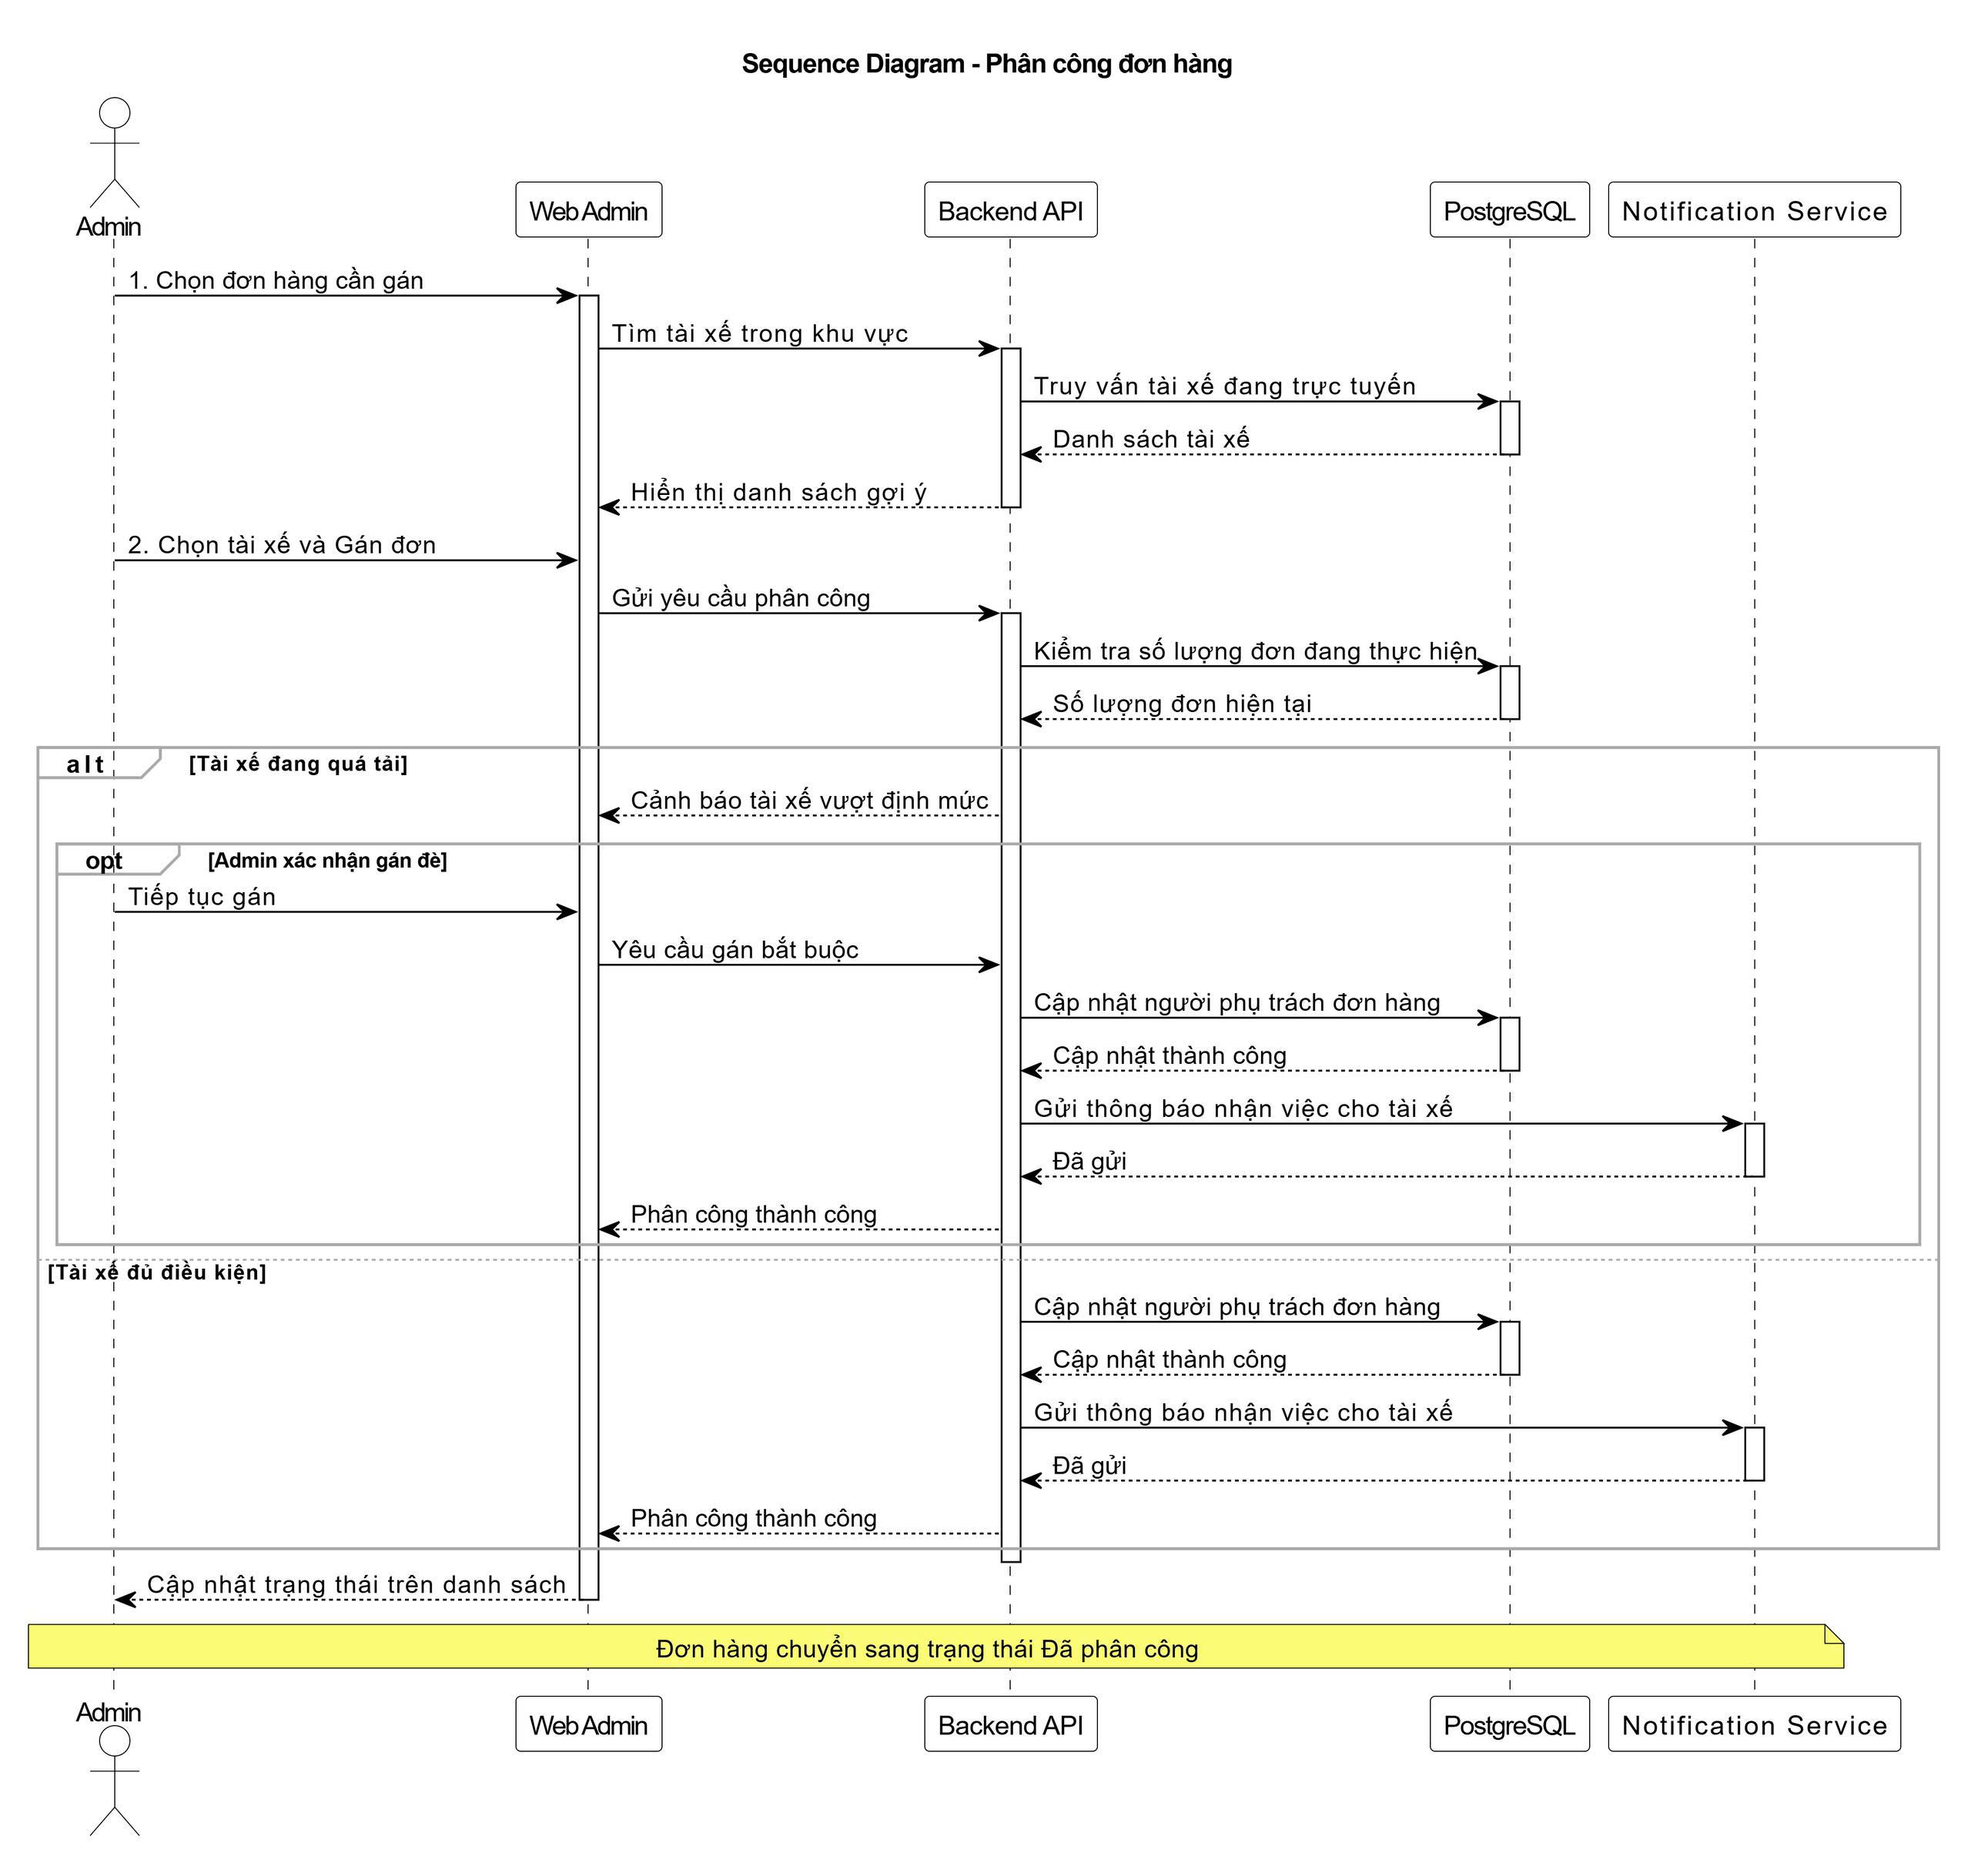
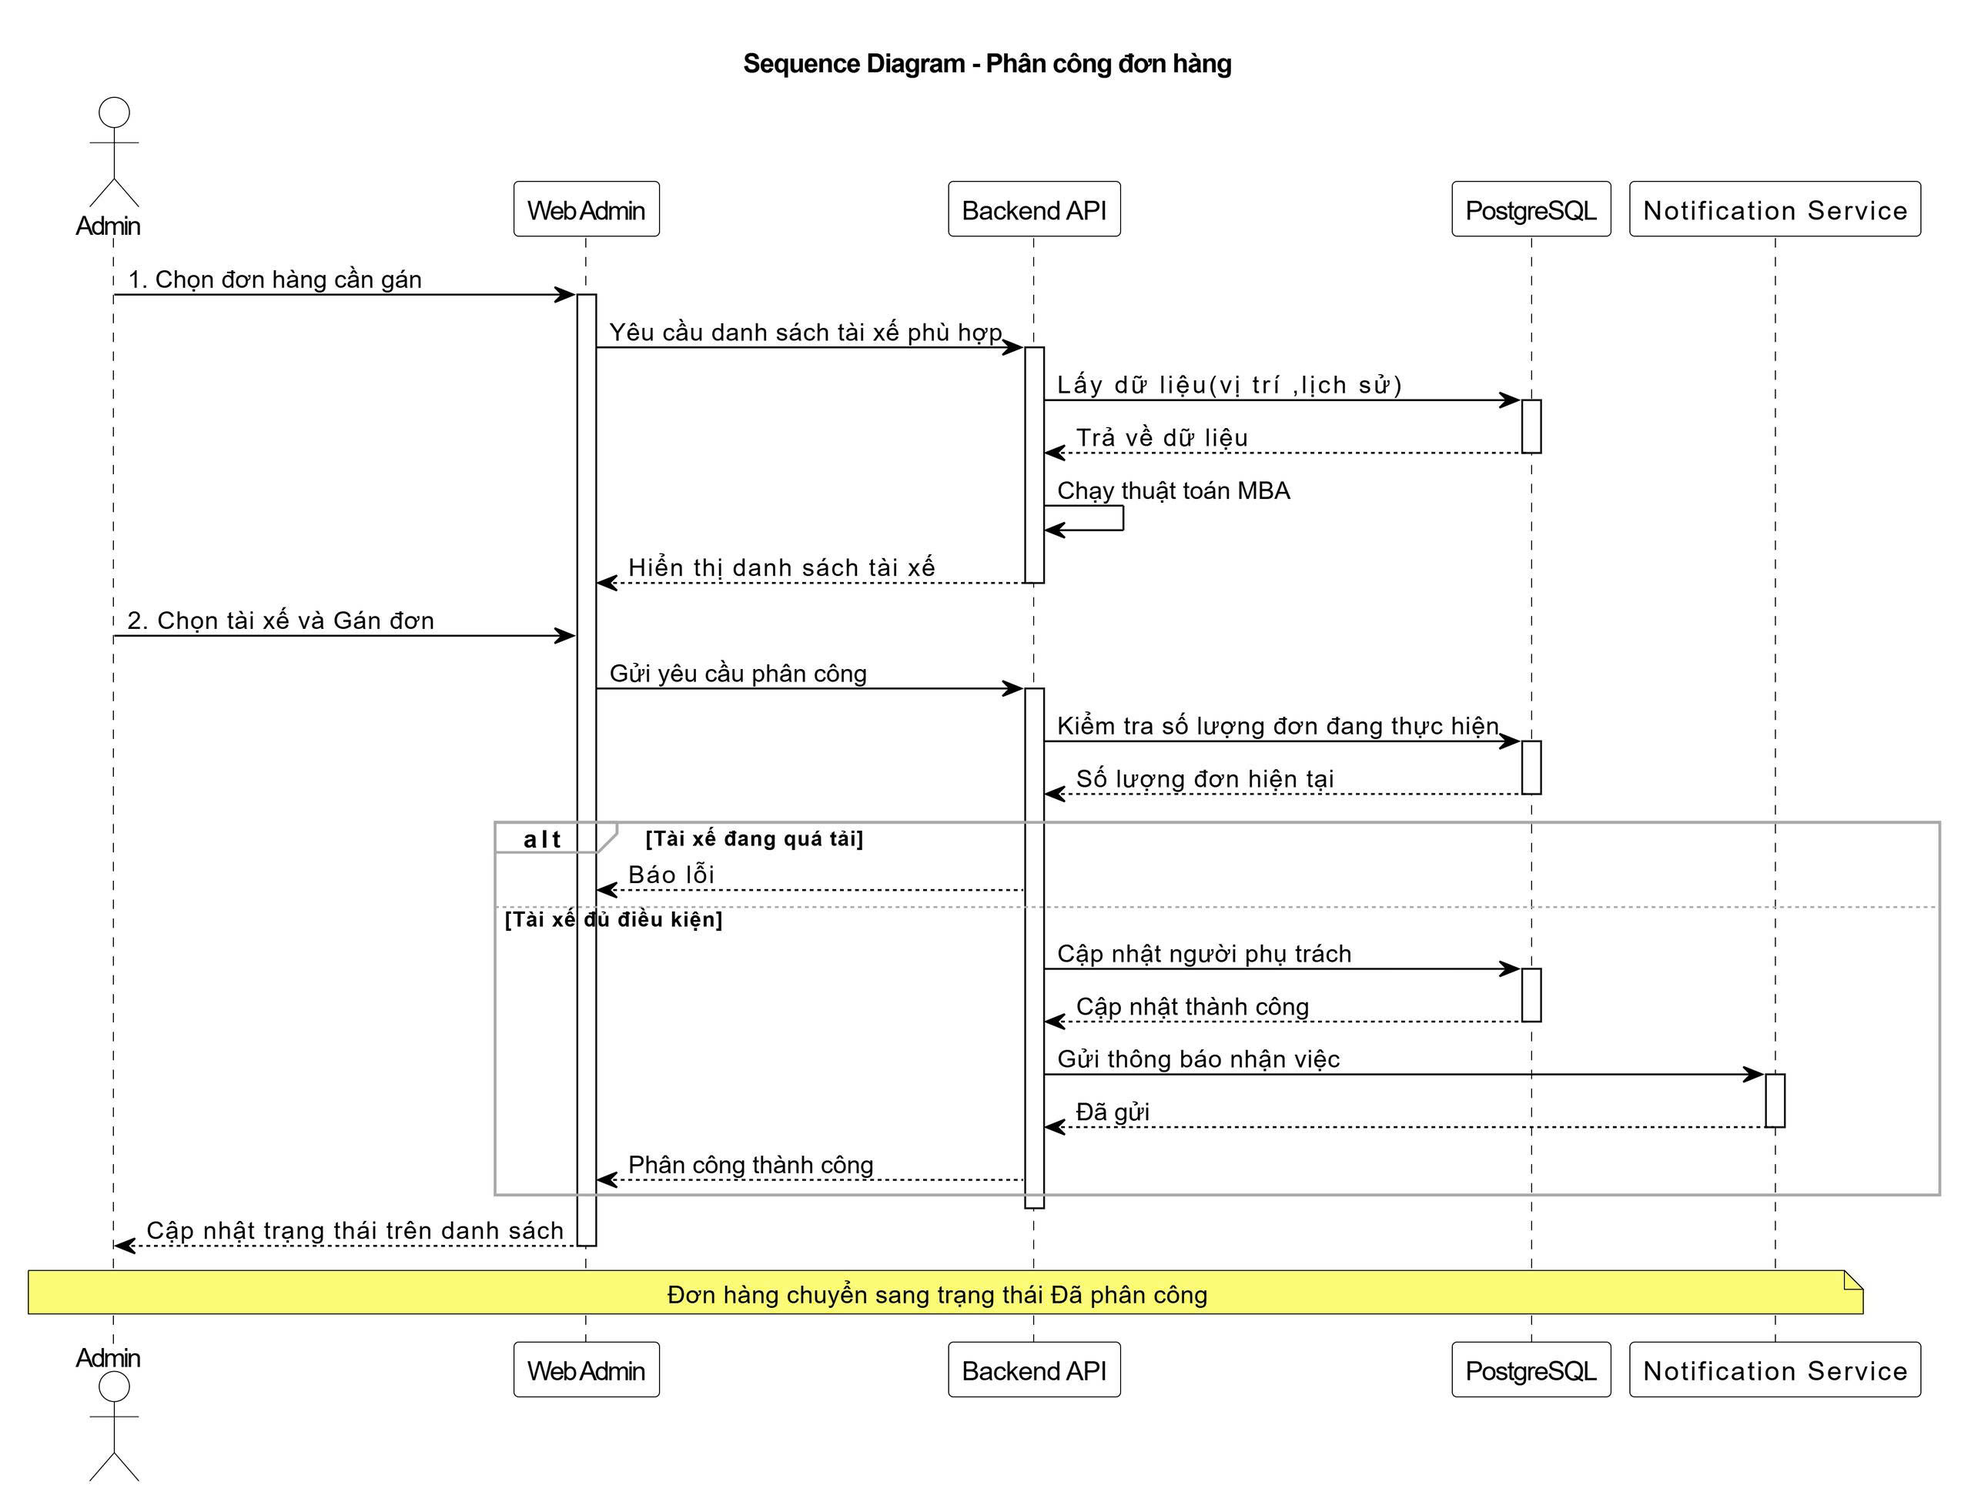
update

diff --git a/chapters/chapter3/section3-1.tex b/chapters/chapter3/section3-1.tex
@@ -617,40 +617,43 @@ Dưới đây là các đặc tả use case của quản trị điều phối:
 \end{tabular}
 \end{table}
 
-\subsection{Tối ưu hóa phân bổ theo độ ưu tiên}
+\subsection{UC-04: Tối ưu lộ trình (MBA)}
 
 \begin{table}[H]
 \centering
 \renewcommand{\arraystretch}{1.3}
 \begin{tabular}{|p{3.5cm}|p{11cm}|}
 \hline
-\textbf{Tên Use Case} & Tối ưu hóa phân bổ theo độ ưu tiên \\ \hline
-\textbf{Actor} & Hệ thống (Scheduler Service), Admin \\ \hline
-\textbf{Mô tả} & Hệ thống tự động tính toán và sắp xếp thứ tự giao hàng sao cho các đơn hàng có độ ưu tiên cao (Express, Fragile) được xử lý sớm nhất, đồng thời cân bằng tải trọng giữa các tài xế. \\ \hline
+\textbf{Tên Use Case} & Tối ưu lộ trình \\ \hline
+\textbf{Actor} & Admin \\ \hline
+\textbf{Mô tả} & Admin kích hoạt chức năng phân tích dữ liệu (MBA) để hệ thống tự động gom nhóm đơn hàng có độ liên kết cao và đề xuất lộ trình tối ưu, giúp tiết kiệm chi phí vận chuyển. \\ \hline
 \textbf{Tiền điều kiện} & 
 \begin{itemize}
-    \item Danh sách đơn hàng đang ở trạng thái chờ xử lý (Pending).
-    \item Có ít nhất một tài xế đang ở trạng thái sẵn sàng (Active).
+    \item Hệ thống có danh sách đơn hàng chưa phân công.
+    \item Cơ sở dữ liệu đã có các luật kết hợp  từ lịch sử giao hàng.
 \end{itemize} \\ \hline
 \textbf{Luồng chính} &
 \begin{enumerate}
-    \item Hệ thống truy xuất danh sách đơn hàng và thông tin độ ưu tiên (Express: 100, Fragile: 80, Normal: 50).
-    \item Hệ thống khởi tạo quần thể các phương án phân bổ ngẫu nhiên (Genetic Algorithm Population).
-    \item Hệ thống tính toán điểm thích nghi (Fitness Score) cho từng phương án dựa trên trọng số ưu tiên (Priority Weight).
-    \item Hệ thống thực hiện các bước tiến hóa (Lai ghép và Đột biến) để tìm ra lịch trình có điểm tối ưu nhất.
-    \item Hệ thống gán thứ tự ưu tiên giao hàng (Queue position) cho từng đơn hàng trong lịch trình của tài xế.
-    \item Hệ thống lưu kết quả vào cơ sở dữ liệu và hiển thị lịch trình đã tối ưu.
+    \item Actor chọn danh sách đơn hàng cần xử lý và nhấn nút "Tối ưu lộ trình".
+    \item Hệ thống thực hiện thuật toán, tính toán độ đo Lift giữa các điểm giao nhận.
+    \item Hệ thống gom nhóm các đơn hàng phù hợp và sắp xếp thứ tự giao tối ưu.
+    \item Hệ thống hiển thị kết quả đề xuất  cho Admin xem trước.
+    \item Actor xem xét, có thể bỏ chọn hoặc chỉnh sửa các nhóm đơn hàng được gợi ý.
+    \item Actor nhấn nút "Áp dụng phân công".
+    \item Hệ thống tự động gán đơn hàng cho tài xế theo kế hoạch đã duyệt.
 \end{enumerate} \\ \hline
 \textbf{Luồng phụ} &
-\textbf{3a. Đơn hàng hỏa tốc (Express) bị xếp muộn:}
+\textbf{2a. Dữ liệu không đủ để phân tích MBA:}
 \begin{itemize}
-    \item Thuật toán phát hiện đơn Express có vị trí hàng đợi (Queue) lớn.
-    \item Hệ thống áp dụng hình phạt (Penalty) vào điểm Fitness để loại bỏ phương án này, ưu tiên đưa đơn lên đầu danh sách.
+    \item Hệ thống không tìm thấy luật kết hợp phù hợp (Lift thấp).
+    \item Hệ thống tự động chuyển sang thuật toán tối ưu khoảng cách ngắn nhất thông thường.
+    \item Hệ thống thông báo cho admin biết thuật toán đang được sử dụng.
 \end{itemize}
-\textbf{4a. Nhiều đơn hàng cùng độ ưu tiên trong một khu vực:}
+\textbf{5a. Admin từ chối kết quả:}
 \begin{itemize}
-    \item Hệ thống sử dụng tiêu chí khoảng cách (Area Code) để sắp xếp các đơn này liên tiếp nhau nhằm tối ưu quãng đường di chuyển.
+    \item Actor nhận thấy lộ trình đề xuất không khả thi.
+    \item Actor nhấn nút "Hủy bỏ" và quay lại màn hình phân công thủ công.
 \end{itemize} \\ \hline
-\textbf{Hậu điều kiện} & Các đơn hàng quan trọng được xếp vào vị trí giao hàng sớm nhất và tài xế nhận được danh sách nhiệm vụ đã sắp xếp. \\ \hline
+\textbf{Hậu điều kiện} & Các đơn hàng được phân công hàng loạt một cách tối ưu, giảm thiểu thao tác thủ công cho Admin. \\ \hline
 \end{tabular}
 \end{table}

diff --git a/chapters/chapter3/section3-4.tex b/chapters/chapter3/section3-4.tex
@@ -51,11 +51,13 @@ Quy trình kết thúc khi hệ thống thông báo tạo đơn thành công và
     \label{fig:phancongdonhang_seq}
 \end{figure}
 
-Sơ đồ mô tả quy trình quản trị viên thực hiện gán đơn hàng cho tài xế cụ thể.
-Quản trị viên chọn đơn hàng trên Web Admin, hệ thống truy vấn Backend API và PostgreSQL để tìm kiếm và hiển thị danh sách tài xế trực tuyến trong khu vực.
-Sau khi Admin chọn tài xế, hệ thống kiểm tra số lượng đơn đang thực hiện. Trong trường hợp tài xế đang quá tải, hệ thống hiển thị cảnh báo và cung cấp tùy chọn gán đè (Force Assign) cho quản trị viên.
-Nếu tài xế đủ điều kiện hoặc quản trị viên xác nhận gán đè, hệ thống cập nhật thông tin người phụ trách vào cơ sở dữ liệu và kích hoạt Notification Service để gửi thông báo nhận việc đến tài xế, đồng thời chuyển trạng thái đơn hàng sang ``Đã phân công''.
+Sơ đồ mô tả quy trình Quản trị viên (Admin) thực hiện phân công đơn hàng cho tài xế thông qua giao diện Web Admin, có tích hợp sự hỗ trợ từ thuật toán gợi ý thông minh.
 
+Quy trình bắt đầu khi Admin chọn đơn hàng cần xử lý. Hệ thống Backend API không chỉ truy vấn dữ liệu từ PostgreSQL mà còn kích hoạt thuật toán MBA nội bộ để phân tích vị trí, lịch sử và các luật kết hợp, từ đó trả về danh sách tài xế được sắp xếp theo độ phù hợp cao nhất.
+
+Sau khi Admin chọn tài xế từ danh sách gợi ý và gửi yêu cầu phân công, hệ thống thực hiện kiểm tra logic nghiệp vụ về số lượng đơn hàng tài xế đang thực hiện.
+Nếu tài xế đang trong trạng thái quá tải (vượt định mức cho phép), hệ thống lập tức trả về cảnh báo lỗi và ngăn chặn việc gán đơn.
+Trong trường hợp tài xế đủ điều kiện tiếp nhận, hệ thống tiến hành cập nhật thông tin người phụ trách vào cơ sở dữ liệu, đồng thời gọi Notification Service để gửi thông báo nhận việc tức thời đến ứng dụng của tài xế và cập nhật trạng thái thành công trên giao diện quản trị.
 \subsection{Sequence Diagram thực hiện lấy hàng}
 
 \begin{figure}[H]

diff --git a/chapters/chapter3/section3-5.tex b/chapters/chapter3/section3-5.tex
@@ -72,7 +72,7 @@ Sơ đồ thể hiện quy trình tiếp nhận và xử lý vòng đời của 
 \noindent \textbf{Các tiến trình con:}
 \begin{itemize}
     \item \textbf{3.1 Tìm kiếm Tài xế:} Truy vấn kho dữ liệu D3 để lọc ra danh sách tài xế đang trực tuyến và nằm trong bán kính phục vụ.
-    \item \textbf{3.2 Tối ưu Lộ trình:} Sử dụng thuật toán và dữ liệu từ Map Service để tính toán chi phí di chuyển, sắp xếp thứ tự ưu tiên.
+    \item \textbf{3.2 Tối ưu Lộ trình:} Sử dụng thuật toán market basket analysis và dữ liệu từ Map Service để tính toán chi phí di chuyển, sắp xếp thứ tự ưu tiên.
     \item \textbf{3.3 Gán đơn \& Thông báo:} Cập nhật ID tài xế vào đơn hàng (D2) và kích hoạt Notification Service để gửi yêu cầu nhận việc.
 \end{itemize}
 

diff --git a/chapters/chapter2/section2-3.tex b/chapters/chapter2/section2-3.tex
@@ -13,7 +13,7 @@ Hệ thống cần đáp ứng các yêu cầu chức năng sau:
 \textbf{Chức năng theo vai trò:}
 \begin{itemize}
     \item Khách hàng (Customer): đặt lịch giao hàng, theo dõi trạng thái đơn.
-    \item Quản lý (Manager): duyệt và điều phối đơn hàng, giám sát nhân viên.
+    \item Quản lý (Admin): duyệt và điều phối đơn hàng, giám sát nhân viên.
     \item user: nhập các điểm cần đi và tiến hành tối ưu lộ trình, xem lại lộ trình.
     \item Nhân viên giao hàng (Driver): nhận đơn hàng, cập nhật trạng thái giao hàng.
 \end{itemize}
